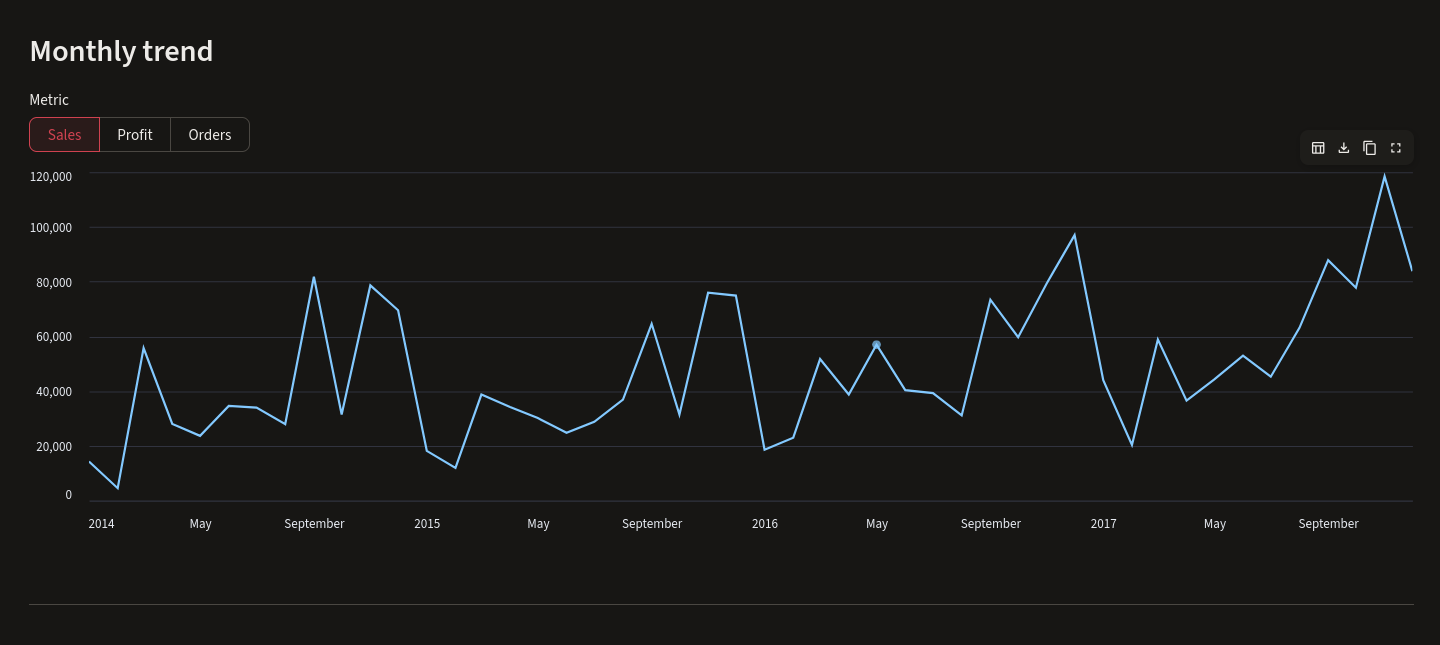
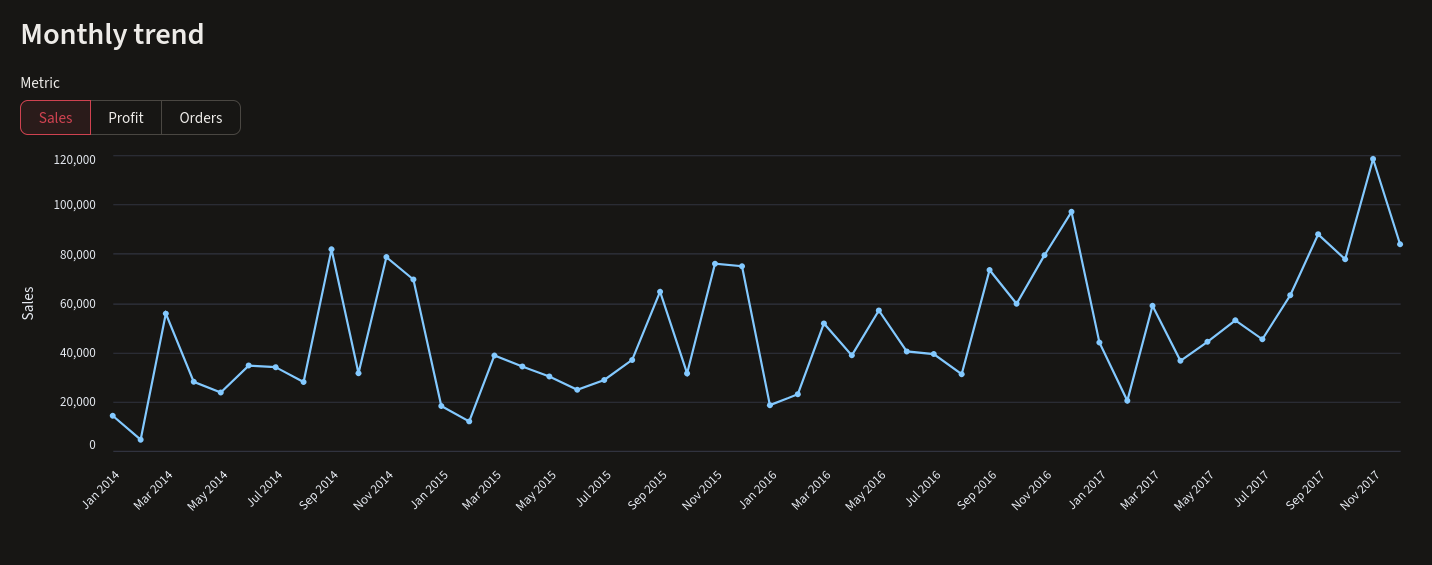
Use Altair for monthly trend chart with readable date axis

diff --git a/dashboard.py b/dashboard.py
@@ -1,5 +1,261 @@
+# from functools import lru_cache
+
+# import streamlit as st
+
+# st.set_page_config(page_title="Sales Dashboard", layout="wide")
+# st.title("Sales Dashboard")
+# st.markdown("An interactive dashboard to explore sales performance.")
+
+# conn = st.connection("postgresql", type="sql")
+
+
+# # ---------------------------------------------------------------
+# # Queries
+# # ---------------------------------------------------------------
+# @lru_cache(maxsize=1)
+# def get_kpis() -> dict:
+#     """Return the global KPIs computed from the orders table."""
+#     df = conn.query(
+#         """
+#         SELECT
+#             COUNT(DISTINCT order_id)    AS total_orders,
+#             SUM(sales)                  AS total_sales,
+#             SUM(profit)                 AS total_profit,
+#             COUNT(DISTINCT customer_id) AS total_customers
+#         FROM orders;
+#         """,
+#         ttl=0,
+#     )
+#     return df.iloc[0].to_dict()
+
+
+# @lru_cache(maxsize=1)
+# def get_monthly():
+#     """Return KPIs aggregated by month (used for sparklines and deltas)."""
+#     df = conn.query(
+#         """
+#         SELECT
+#             DATE_TRUNC('month', order_date) AS month,
+#             COUNT(DISTINCT order_id)        AS orders,
+#             SUM(sales)                      AS sales,
+#             SUM(profit)                     AS profit,
+#             COUNT(DISTINCT customer_id)     AS customers
+#         FROM orders
+#         GROUP BY 1
+#         ORDER BY 1;
+#         """,
+#         ttl=0,
+#     )
+#     # Decimal -> float for all numeric columns
+#     for col in ["orders", "sales", "profit", "customers"]:
+#         df[col] = df[col].astype(float)
+
+#     # Derived monthly metrics
+#     df["avg_basket"] = df["sales"] / df["orders"]
+#     df["margin"] = df["profit"] / df["sales"]
+#     return df
+
+
+# @lru_cache(maxsize=1)
+# def get_by_region():
+#     """Return sales and profit aggregated by region."""
+#     df = conn.query(
+#         """
+#         SELECT
+#             region,
+#             SUM(sales)  AS sales,
+#             SUM(profit) AS profit
+#         FROM orders
+#         GROUP BY region
+#         ORDER BY sales DESC;
+#         """,
+#         ttl=0,
+#     )
+#     df[["sales", "profit"]] = df[["sales", "profit"]].astype(float)
+#     return df
+
+
+# @lru_cache(maxsize=1)
+# def get_top_products():
+#     """Return the 10 best-selling products."""
+#     df = conn.query(
+#         """
+#         SELECT
+#             product_name,
+#             SUM(sales)    AS sales,
+#             SUM(profit)   AS profit,
+#             SUM(quantity) AS quantity
+#         FROM orders
+#         GROUP BY product_name
+#         ORDER BY sales DESC
+#         LIMIT 10;
+#         """,
+#         ttl=0,
+#     )
+#     df[["sales", "profit"]] = df[["sales", "profit"]].astype(float)
+#     return df
+
+
+# # ---------------------------------------------------------------
+# # Helpers
+# # ---------------------------------------------------------------
+# def pct_change(series) -> str:
+#     """Percent change between the last two months."""
+#     last, prev = float(series.iloc[-1]), float(series.iloc[-2])
+#     return f"{(last - prev) / prev:.1%}" if prev else "0%"
+
+
+# def points_change(series) -> str:
+#     """Difference in percentage points between the last two months."""
+#     diff = (float(series.iloc[-1]) - float(series.iloc[-2])) * 100
+#     return f"{diff:+.1f} pts"
+
+
+# def spark(series) -> list[float]:
+#     """Convert a series to a list of floats for the chart."""
+#     return series.astype(float).tolist()
+
+
+# # ---------------------------------------------------------------
+# # Data
+# # ---------------------------------------------------------------
+# kpi = get_kpis()
+# monthly = get_monthly()
+
+# avg_basket = float(kpi["total_sales"]) / float(kpi["total_orders"])
+# margin = float(kpi["total_profit"]) / float(kpi["total_sales"])
+
+# DELTA_HELP = "Delta = variation between the last two months of data."
+
+# # ---------------------------------------------------------------
+# # KPIs
+# # ---------------------------------------------------------------
+# st.subheader("Key Performance Indicators")
+
+# # Row 1
+# col1, col2, col3 = st.columns(3)
+
+# with col1:
+#     st.metric(
+#         "Total orders",
+#         f"{int(kpi['total_orders']):,}",
+#         delta=pct_change(monthly["orders"]),
+#         chart_data=spark(monthly["orders"]),
+#         chart_type="line",
+#         icon=":material/shopping_cart:",
+#         border=True,
+#         help=DELTA_HELP,
+#     )
+
+# with col2:
+#     st.metric(
+#         "Total sales",
+#         f"${float(kpi['total_sales']):,.0f}",
+#         delta=pct_change(monthly["sales"]),
+#         chart_data=spark(monthly["sales"]),
+#         chart_type="area",
+#         icon=":material/payments:",
+#         border=True,
+#         help=DELTA_HELP,
+#     )
+
+# with col3:
+#     st.metric(
+#         "Total profit",
+#         f"${float(kpi['total_profit']):,.0f}",
+#         delta=pct_change(monthly["profit"]),
+#         chart_data=spark(monthly["profit"]),
+#         chart_type="bar",
+#         icon=":material/trending_up:",
+#         border=True,
+#         help=DELTA_HELP,
+#     )
+
+# # Row 2
+# col4, col5, col6 = st.columns(3)
+
+# with col4:
+#     st.metric(
+#         "Customers",
+#         f"{int(kpi['total_customers']):,}",
+#         delta=pct_change(monthly["customers"]),
+#         chart_data=spark(monthly["customers"]),
+#         chart_type="line",
+#         icon=":material/group:",
+#         border=True,
+#         help=DELTA_HELP,
+#     )
+
+# with col5:
+#     st.metric(
+#         "Average basket",
+#         f"${avg_basket:,.2f}",
+#         delta=pct_change(monthly["avg_basket"]),
+#         chart_data=spark(monthly["avg_basket"]),
+#         chart_type="line",
+#         icon=":material/receipt_long:",
+#         border=True,
+#         help=DELTA_HELP,
+#     )
+
+# with col6:
+#     st.metric(
+#         "Profit margin",
+#         f"{margin:.1%}",
+#         delta=points_change(monthly["margin"]),
+#         chart_data=spark(monthly["margin"]),
+#         chart_type="area",
+#         icon=":material/percent:",
+#         border=True,
+#         help=DELTA_HELP,
+#     )
+
+# # ---------------------------------------------------------------
+# # Section 1: Monthly trend
+# # ---------------------------------------------------------------
+# st.divider()
+# st.subheader("Monthly trend")
+
+# metric_choice = st.segmented_control(
+#     "Metric",
+#     options=["sales", "profit", "orders"],
+#     default="sales",
+#     format_func=str.capitalize,
+# )
+
+# st.line_chart(
+#     monthly.set_index("month")[[metric_choice or "sales"]],
+#     height=350,
+# )
+
+# # ---------------------------------------------------------------
+# # Section 2: Performance breakdown
+# # ---------------------------------------------------------------
+# st.divider()
+# st.subheader("Performance breakdown")
+
+# left, right = st.columns(2)
+
+# with left:
+#     st.markdown("**Sales and profit by region**")
+#     by_region = get_by_region()
+#     st.bar_chart(by_region.set_index("region")[["sales", "profit"]])
+
+# with right:
+#     st.markdown("**Top 10 products by sales**")
+#     st.dataframe(
+#         get_top_products(),
+#         hide_index=True,
+#         column_config={
+#             "product_name": "Product",
+#             "sales": st.column_config.NumberColumn("Sales", format="$%.0f"),
+#             "profit": st.column_config.NumberColumn("Profit", format="$%.0f"),
+#             "quantity": st.column_config.NumberColumn("Qty"),
+#         },
+#     )
 from functools import lru_cache
 
+import altair as alt
 import streamlit as st
 
 st.set_page_config(page_title="Sales Dashboard", layout="wide")
@@ -223,10 +479,28 @@ metric_choice = st.segmented_control(
     format_func=str.capitalize,
 )
 
-st.line_chart(
-    monthly.set_index("month")[[metric_choice or "sales"]],
-    height=350,
+metric = metric_choice or "sales"
+metric_label = metric.capitalize()
+
+trend_chart = (
+    alt.Chart(monthly)
+    .mark_line(point=True)
+    .encode(
+        x=alt.X(
+            "month:T",
+            title=None,
+            axis=alt.Axis(format="%b %Y", labelAngle=-45),
+        ),
+        y=alt.Y(f"{metric}:Q", title=metric_label),
+        tooltip=[
+            alt.Tooltip("month:T", title="Month", format="%B %Y"),
+            alt.Tooltip(f"{metric}:Q", title=metric_label, format=",.0f"),
+        ],
+    )
+    .properties(height=350)
 )
+
+st.altair_chart(trend_chart, use_container_width=True)
 
 # ---------------------------------------------------------------
 # Section 2: Performance breakdown
